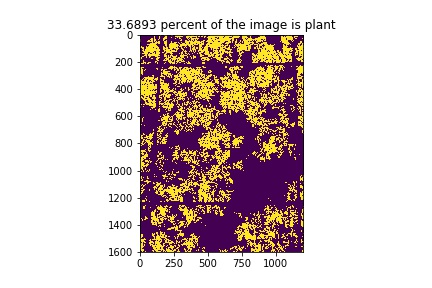
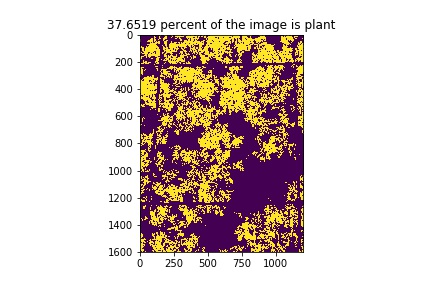
box detection TODO define rect,mask border

diff --git a/segmentation.py b/segmentation.py
@@ -20,19 +20,31 @@ from PIL import Image
 from skimage import measure
 from os import listdir
 from skimage.morphology import closing
+from scipy import ndimage
+
+from skimage import data
+from skimage.filters import threshold_otsu
+from skimage.segmentation import clear_border
+from skimage.measure import label, regionprops
+from skimage.morphology import closing, square
+from skimage.color import label2rgb
+#%%
+
 dirc = 'plaatjes'
+
+
 ls = listdir(dirc)
 ext = 'png jpg jpeg gif'
-ls = [l for l in ls if l[-3:] in ext]
+ls = [l for l in ls if l[-3:] in ext and 'mask' not in l]
 from statistics import mode
 #
-def mask_greens(img,greenthresh=100,redthresh=200,bluethresh=200):
+def mask_greens(img,greenthresh=90,redthresh=230,bluethresh=230):
     green = img[:,:,1]>greenthresh
     not_red = img[:,:,0] < redthresh
     not_blue = img[:,:,2] < bluethresh
-    diffrg = abs(img[:,:,0] - img[:,:,1]) > 40
-    diffgb = abs(img[:,:,1] - img[:,:,2]) < 220
-    diffrb = abs(img[:,:,0] - img[:,:,2]) < 220
+    diffrg = abs(img[:,:,0] - img[:,:,1]) > 30
+    diffgb = abs(img[:,:,1] - img[:,:,2]) < 230
+    diffrb = abs(img[:,:,0] - img[:,:,2]) < 230
     color_less  = np.logical_and(diffrb,np.logical_and(diffrg,diffgb))
     return np.logical_and(np.logical_and(np.logical_and(green,not_red),not_blue),color_less)
     
@@ -44,42 +56,88 @@ for f in ls:
     r,c,_ = img1.shape
 
     imgs.append(img1)
-    
-    fig, ax = plt.subplots(1, 2,figsize=(12,6))
-    ax[0].imshow(img1,cmap='gray')
-    ax[1].hist(img1[:,:,1].ravel(), bins=255, range=[0, 256])
-    ax[1].set_title('Green channel distribution')
-    ax[1].set_xlim(0, 256);
+    #img1 = ndimage.gaussian_filter(img1,0.4)
+    fig, ax = plt.subplots(2, 2,figsize=(24,12))
+    ax[0,0].imshow(img1,cmap='gray')
+    ax[0,1].hist(img1[:,:,1].ravel(), bins=255, range=[0, 256])
+    ax[0,1].set_title('Green channel distribution')
+    ax[0,1].set_xlim(0, 256);
+    twigs = np.sum(img1[:,:]>245,axis=2)
+    ax[1,0].imshow(closing(twigs))
+    xs,ys = np.where(twigs>1)
     plt.show()
     greens = closing(mask_greens(img1,))
     plt.imshow(greens)
-
+    
     pct = sum(greens.ravel())/(r*c)
     plt.title('{:.4f} percent of the image is plant'.format(pct*100))
     plt.savefig('plaatjes/masked_'+f)
-##
-#    
-#def circle_points(resolution, center, radius):
-#    """
-#    Generate points which define a circle on an image.Centre refers to the centre of the circle
-#    """   
-#    radians = np.linspace(0, 2*np.pi, resolution)
-#    c = center[1] + radius*np.cos(radians)#polar co-ordinates
-#    r = center[0] + radius*np.sin(radians)
-#    
-#    return np.array([c, r]).T
-## Exclude last point because a closed path should not have duplicate points
-#cat = circle_points(200, [720, 250], 280)[:-1]
-#human = circle_points(200,[700,750],280)[:-1]    
-#renske = imgs[5]
-#fig,ax = plt.subplots(1,1,figsize=(8,5))
-#plt.imshow(renske)
-#image_gray = color.rgb2gray(renske) 
-#plt.imshow(renske)
-#plt.plot(cat[:, 0], cat[:, 1], '--r', lw=2)
-#plt.plot(human[:, 0], human[:, 1], '--g', lw=2)
-#snake = seg.active_contour(image_gray, cat,alpha=0.002,beta=0.1)
-#snake_hum = seg.active_contour(image_gray,human,alpha=0.002,beta=0.1)
-#plt.plot(snake[:, 0], snake[:, 1], '-b', lw=1);
-#plt.plot(snake_hum[:, 0], snake_hum[:, 1], '-b', lw=1);
+#%%
+from skimage.feature import corner_harris, corner_subpix, corner_peaks
+import matplotlib.patches as mpatches
 
+
+
+from skimage.transform import (hough_line, hough_line_peaks,
+                               probabilistic_hough_line)
+from skimage.feature import canny
+h, theta, d = hough_line(image)
+# Generating figure 1
+fig, axes = plt.subplots(1, 2, figsize=(15, 6))
+ax = axes.ravel()
+
+ax[0].imshow(image, cmap=plt.cm.gray)
+ax[0].set_title('Input image')
+ax[0].set_axis_off()
+
+
+
+ax[1].imshow(image, cmap=plt.cm.gray)
+for some, angle, dist in zip(*hough_line_peaks(h, theta, d)):
+    y0 = (dist - 0 * np.cos(angle)) / np.sin(angle)
+    y1 = (dist - image.shape[1] * np.cos(angle)) / np.sin(angle)
+    ax[1].plot((0, image.shape[1]), (y0, y1), '-r')
+ax[1].set_xlim((0, image.shape[1]))
+ax[1].set_ylim((image.shape[0], 0))
+ax[1].set_axis_off()
+ax[1].set_title('Detected lines')
+
+plt.tight_layout()
+plt.show()
+
+#thresh = threshold_otsu(image)
+#bw = closing(image > thresh, square(1))
+#plt.imshow(bw)\
+#contours = measure.find_contours(r, 0.1)
+#
+## Display the image and plot all contours found
+#fig, ax = plt.subplots()
+#ax.imshow(r, interpolation='nearest', cmap=plt.cm.gray)
+#
+#for n, contour in enumerate(contours):
+#    ax.plot(contour[:, 1], contour[:, 0], linewidth=2)
+
+# remove artifacts connected to image border
+#cleared = clear_border(bw)
+#imshow(cleared)
+
+
+# label image regions
+#label_image = label(cleared)
+#image_label_overlay = label2rgb(label_image, image=image)
+#
+#fig, ax = plt.subplots(figsize=(10, 6))
+#ax.imshow(image_label_overlay)
+#
+#for region in regionprops(label_image):
+#    # take regions with large enough areas
+#    if region.area >= 100:
+#        # draw rectangle around segmented coins
+#        minr, minc, maxr, maxc = region.bbox
+#        rect = mpatches.Rectangle((minc, minr), maxc - minc, maxr - minr,
+#                                  fill=False, edgecolor='red', linewidth=2)
+#        ax.add_patch(rect)
+#
+#ax.set_axis_off()
+#plt.tight_layout()
+#plt.show()
